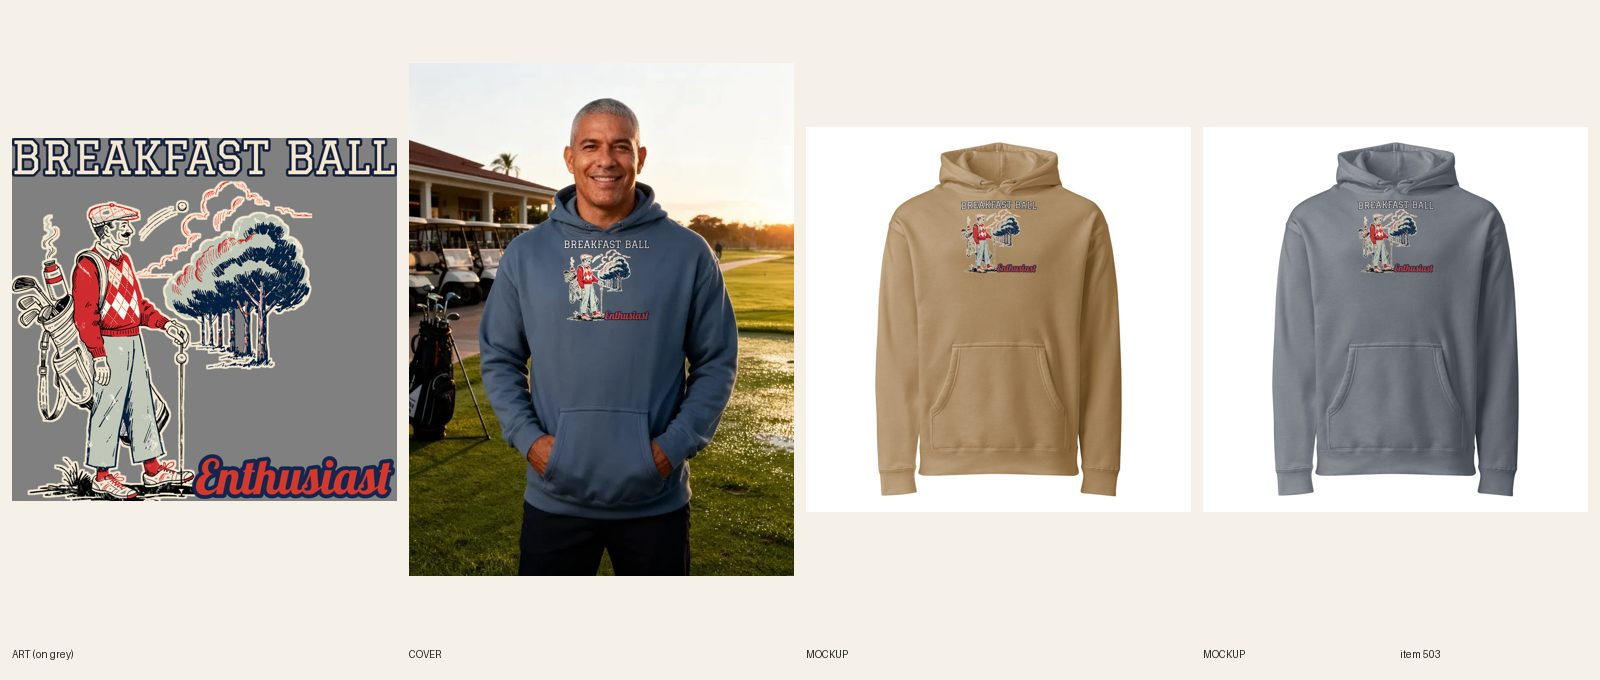
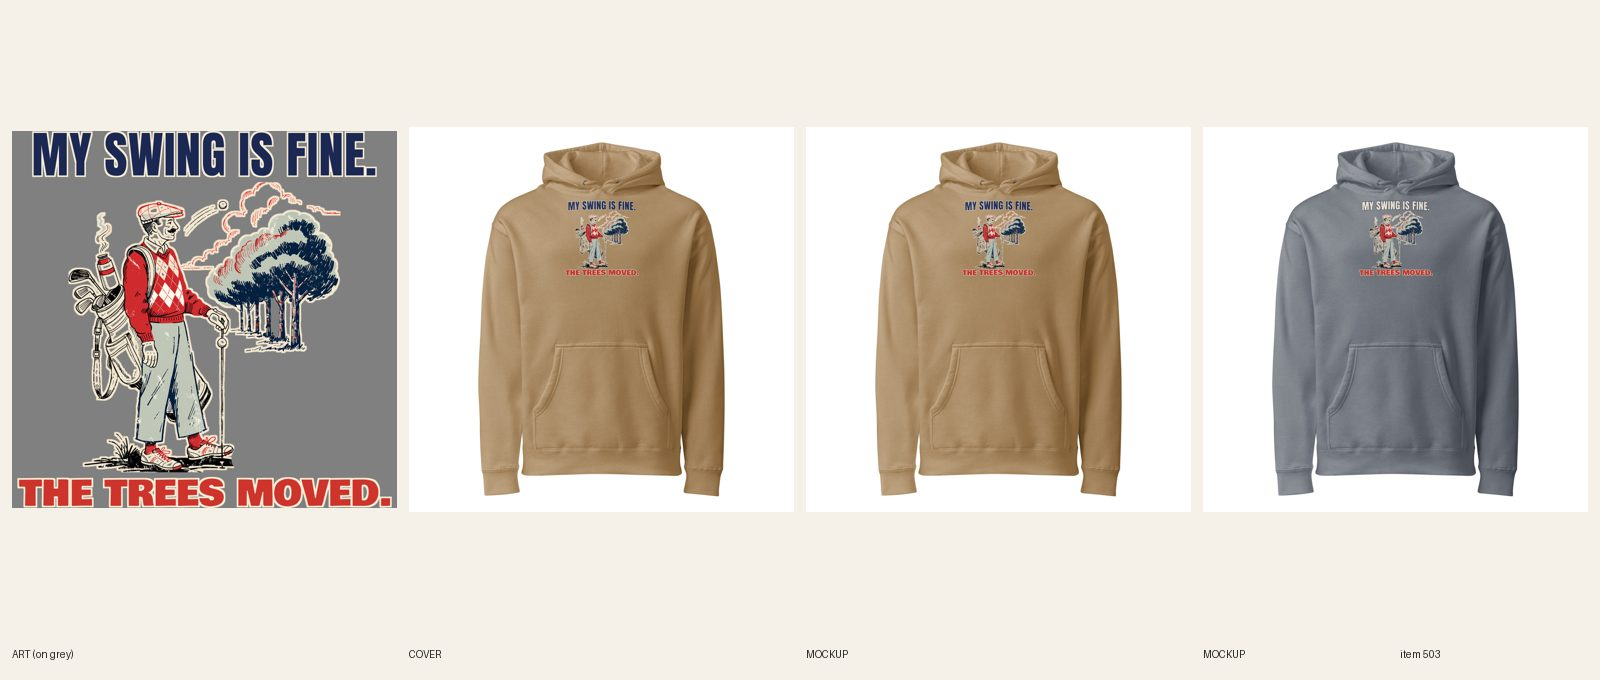
[C] review 503 (redo)
Claude-Session: https://claude.ai/code/session_01CCHcDj8LcJJ8qUPtKE3cvn

Changed region(s): [[0.0, 0.1235, 0.5, 0.8647], [0.8438, 0.2779, 0.9062, 0.4324], [0.5938, 0.2779, 0.6562, 0.4015]]

diff --git a/designs/c503/make.py b/designs/c503/make.py
@@ -1,0 +1,36 @@
+from PIL import Image, ImageDraw, ImageFont, ImageFilter
+FD='designs/fonts/'
+RED=(196,52,44,255); NAVY=(28,40,84,255); RED=(206,52,44,255); CREAM=(246,236,214,255); BROWN=(58,36,24,255)
+def line(text,font,wfrac,W,fill,key,kw=31,track=0,var=None):
+    def mk(sz):
+        f=ImageFont.truetype(FD+font,sz)
+        if var: f.set_variation_by_axes(var)
+        return f
+    f=mk(800); adv=[f.getlength(c) for c in text]
+    tot=sum(adv)+track*(len(text)-1); size=int(800*W*wfrac/tot)
+    f=mk(size); adv=[f.getlength(c) for c in text]; tr=int(track*size/800)
+    asc,desc=f.getmetrics(); tot=int(sum(adv)+tr*(len(text)-1))
+    pad=80; im=Image.new('RGBA',(tot+2*pad,asc+desc+2*pad),(0,0,0,0))
+    def draw(layer,col):
+        d=ImageDraw.Draw(layer); x=pad
+        for c,a in zip(text,adv): d.text((x,pad),c,font=f,fill=col); x+=a+tr
+    k=Image.new('L',im.size,0); d=ImageDraw.Draw(k); x=pad
+    for c,a in zip(text,adv): d.text((x,pad),c,font=f,fill=255); x+=a+tr
+    k=k.filter(ImageFilter.MaxFilter(kw)); im.paste(Image.new('RGBA',im.size,key),(0,0),k)
+    draw(im,fill)
+    return im.crop(im.getbbox())
+import sys
+NV=len(sys.argv)>1
+art=Image.open('designs/c503/art.png').convert('RGBA'); W=3000; sc=0.8
+art=art.resize((int(art.width*sc),int(art.height*sc)),Image.LANCZOS)
+h1=line("MY SWING IS FINE.",'Anton-Regular.ttf',0.90,W,CREAM if NV else NAVY,NAVY if NV else CREAM,kw=25,track=14)
+h2=line("THE TREES MOVED.",'BowlbyOne-Regular.ttf',0.97,W,RED,CREAM,kw=27)
+print('h1',h1.size,'h2',h2.size,'ratio h2/h1',h2.height/h1.height)
+g=36; H=h1.height+g+art.height+g+h2.height
+out=Image.new('RGBA',(W,H),(0,0,0,0))
+out.alpha_composite(h1,((W-h1.width)//2,0)); y=h1.height+g
+out.alpha_composite(art,((W-art.width)//2,y)); y+=art.height+g
+out.alpha_composite(h2,((W-h2.width)//2,y))
+out.save('docs/print-files/503-v2-trees-moved%s.png'%('-storm' if NV else '')); print(out.size,H/W)
+for n,c in ((('storm',(86,112,148,255)),) if NV else (('sandstone',(214,196,160,255)),)):
+    bg=Image.new('RGBA',out.size,c); bg.alpha_composite(out); bg.convert('RGB').resize((600,int(600*H/W))).save(f'designs/c503/prev_{n}.png')

diff --git a/docs/pipeline/503-golf-heavyweight-breakfast-ball-enthusiast.md b/docs/pipeline/503-golf-heavyweight-breakfast-ball-enthusiast.md
@@ -1,4 +1,4 @@
-status: REDO
+status: REVIEW
 lane: C
 type: new
 id: 503
@@ -35,3 +35,4 @@ kd: 16
 - 2026-10-18 02:10 UTC builder [C]: Sync 14/14 on the new print file. REVIEW.
 - 2026-10-18 02:45 UTC director: LIVE (ACTIVE + published, audit PASS). Enthusiast now reads at phone size.
 - 2026-10-18 17:22 UTC director: QUALITY RESET grade C (new line + type), REDO. The product stays ACTIVE (same handle, URL, title keyword). 1. Line (R3.12, quality-reset 'Lines'): "BREAKFAST BALL / Enthusiast": Insider golf term plus a mild noun; no laugh for non-golfers. Write 5 candidates, keep the one a stranger laughs at in 3 seconds without backstory; kill lines that only describe the picture; if none of the 5 is funny, PARK it. 2. Quality reset type bar (docs/backlog/quality-reset.md, 'The new bar'): headline at least 90% of the art width, heavy, colors pulled from the art; second line at least 45% of the headline's height, never a thin script on a dark or mid garment; use the lettering as a shape (arch, stacked lockup, words breaking into the art), not a plain bar above and a script line below; no font used on more than 1 in 6 of the last 30 designs. 3. Keep the art if it carries the new line, else one new illustration (R4/R5). New print means a new cover per R6.10, copy line one rewritten for the new joke (R8.3), and a fresh review sheet (R7.7). While quality-reset.md says PAUSED, only lane A builds, and only the samples step 2 names.
+- 2026-10-20 07:30 UTC builder [C]: REDO new line + type (grade C). 5 candidates: "MY SWING IS FINE. / THE TREES MOVED." (kept: the pines are in the picture, any golfer's alibi), "BREAKFAST BALL Enthusiast" (old, insider), "FIRST TEE 6 AM. FIRST LIE 6:01.", "I DON'T SLICE. I TOUR THE TREES.", "MULLIGAN IS MY MIDDLE NAME". Same golfer/pines art; the old Enthusiast script was erased from the lower right (cleaned the shoe edge). MY SWING IS FINE. Anton 90% of the width; THE TREES MOVED. Bowlby One 97% width, red with cream keyline. Light-file (R5.3.8): Sandstone file 1090158606 has the top line navy with a cream keyline; Storm Blue file 1090158696 has it cream with a navy keyline (docs/print-files/503-v2-trees-moved.png / -storm.png); logged: light file Sandstone on file 1090158606, headline fill navy. Art scaled 80% so the print is 3000 x 2936, FW 1500 TOP 30 (ends above the pouch seam), 14/14 relinked per color. 2 fronts replaced in place, read at phone size. Copy, FAQ and SEO rewritten for the new joke. Plain product shot. fal $0.

diff --git a/docs/intake-log.md b/docs/intake-log.md
@@ -14,6 +14,7 @@ RUNNING lane B since 2026-10-20 03:28 UTC
 2026-10-20 03:41 UTC — [B] Builder run: redid #362 Women's Baseball hoodie (line + type: MISSED THE PLAY. / SEEDS WERE GOOD., same art, Bowlby One, Navy + Sand light files, 12/12 synced). REVIEW. fal $0.
 2026-10-20 05:26 UTC — [E] Builder run: redid #388 Women's Christmas crewneck (line + type: SORRY, I'M BOOKED TILL JANUARY., new party-calendar art, Navy + Sand files, 12/12 synced, copy updated, plain product shot). REVIEW. fal $0.08.
 RUNNING lane C since 2026-10-20 03:23 UTC
+2026-10-20 07:32 UTC — [C] Builder run: redid #503 Men's Golf heavyweight hoodie (new line + type: MY SWING IS FINE. / THE TREES MOVED., Anton + Bowlby One, same golfer art, Sandstone file 1090158606 + Storm Blue file 1090158696, FW 1500 TOP 30, 14/14 relinked, 2 fronts replaced in place, copy + SEO updated, plain product shot). REVIEW. fal $0.
 2026-10-20 06:47 UTC — [C] Builder run: redid #495 Men's Gym medieval hoodie (new line + type: LEG DAY CLAIMED / ANOTHER KNIGHT., Cinzel Black + Bevan, same knight art, Sand file 1090154570 + Navy cream-top file 1090155376, FW 1500 TOP 0, 12/12 relinked, 2 fronts replaced in place, copy + SEO updated, plain product shot). REVIEW. fal $0.
 2026-10-20 06:07 UTC — [C] Builder run: redid #323 Women's Capybara oversized hoodie (new line + type: PER MY LAST EMAIL, / I'M SOAKING., Anton + Bowlby One, same hot-spring art, Dust file 1090151395 + Navy cream-top file, FW 1500 TOP 75, 12/12 relinked, 2 fronts replaced in place, copy + SEO updated, plain product shot). REVIEW. fal $0.
 2026-10-20 05:27 UTC — [C] Builder run: redid #561 Unisex Pitbull hoodie (new line + type: THE BELLY IS OPEN. / NO APPOINTMENT NEEDED., Bowlby One + Anton, same belly-up art, file 1090148539, FW 1500 TOP 0, 12/12 relinked, 2 fronts replaced in place, copy + SEO updated, plain product shot). REVIEW. fal $0.
